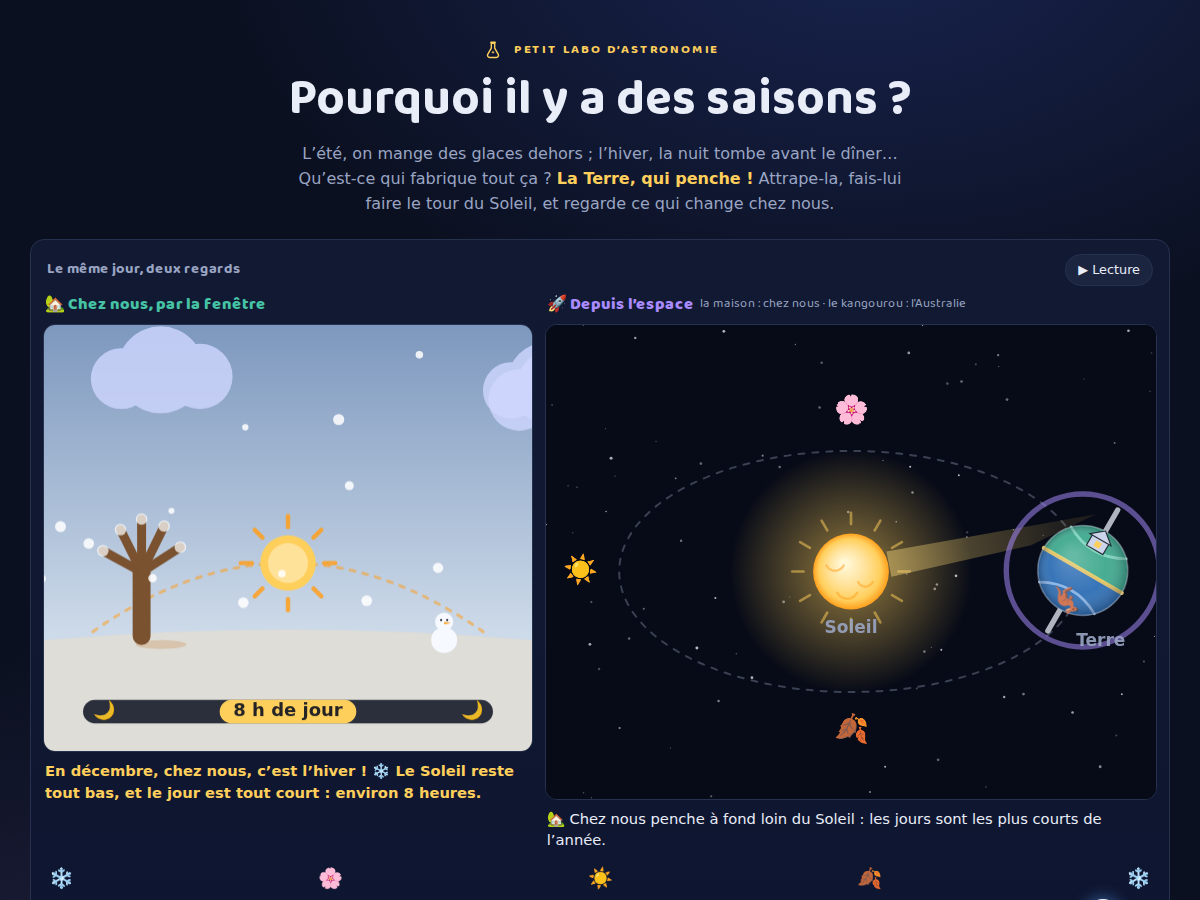
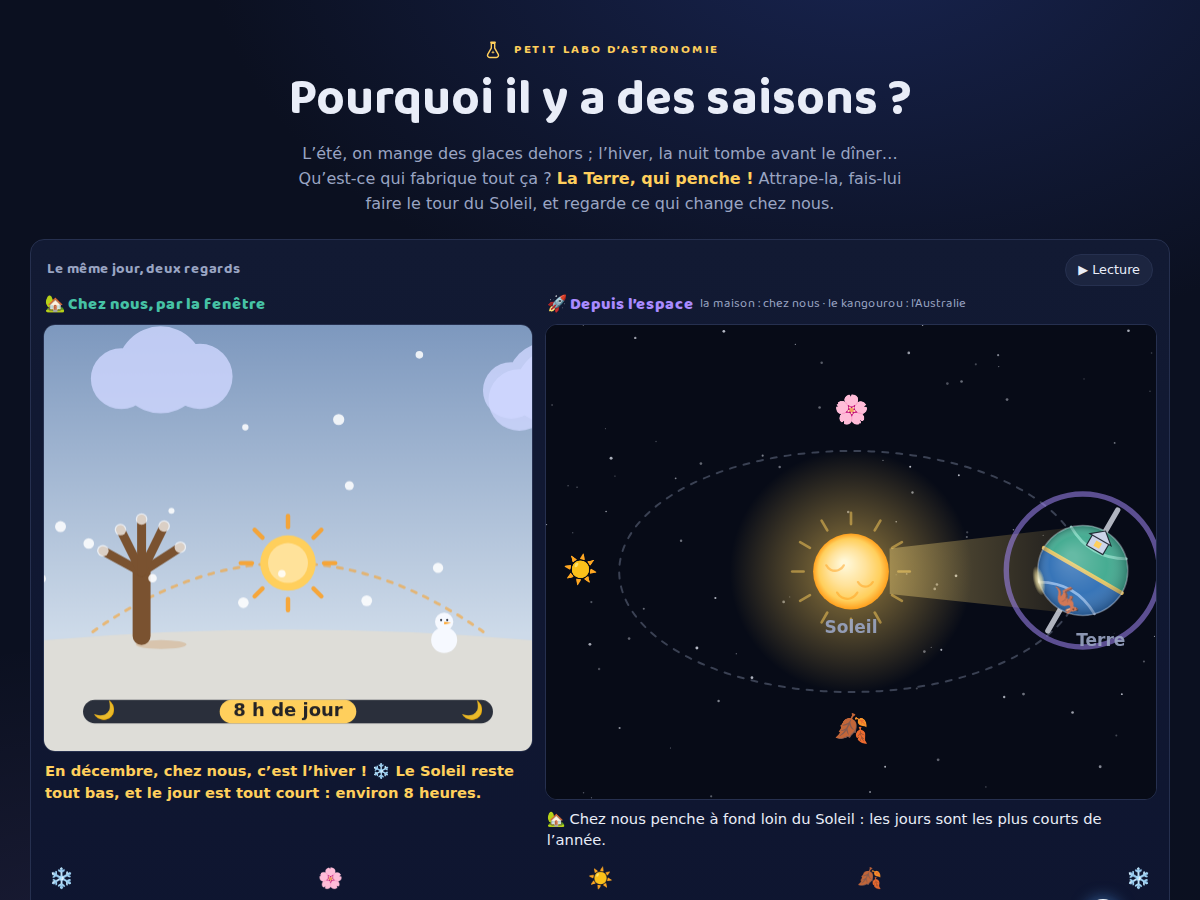
feat: le faisceau devient large, les taches d'arrivee font la pedagogie
Décision utilisateur après essais en artefact : le faisceau ne vise plus
personne — il arrose toute la face de la Terre, du pôle nord au pôle sud,
comme en vrai. Ce sont les taches d'arrivée qui racontent les saisons,
une par moitié : vive et ramassée là où la lumière frappe bien en face
(chez nous l'été, l'Australie l'hiver), aucune là où elle rase — la
lumière glisse sans chauffer. L'aplomb du sud réutilise la loi du modèle
six mois plus tard (miroir exact). Le faisceau garde son extinction aux
équinoxes (forceFaisceau).

Note aux parents, CLAUDE.md et README réalignés ; captures régénérées.

Claude-Session: https://claude.ai/code/session_018g4iGsVy9rHqQjnC3SGe4X

Changed region(s): [[0.74, 0.56, 0.8942, 0.6844]]

diff --git a/js/vue-orbite.js b/js/vue-orbite.js
@@ -37,62 +37,61 @@ var REPERES_SAISONS = [
   { emoji: '🌸', angle: (3 * TAU) / 4 }
 ];
 
-/* La lumière qui frappe : un faisceau doux du bord du Soleil vers la cible,
- * et la tache d'arrivée qui fait la pédagogie. Le sweet spot d'été est
- * généreux (le Soleil n'éclaire pas qu'un point), et quand la lumière rase
- * (hiver), la tache s'efface au profit du faisceau diffus — une ellipse
- * plate n'aurait pas de sens. `partie` : 'faisceau' (avant le globe,
- * découpé hors de son disque) ou 'tache' (après, posée sur la surface). */
-function dessinerLumiere(ctx, sx, sy, rS, tx, ty, gx, gy, rG, aplomb, partie, force) {
+/* La lumière : UN faisceau large qui arrose TOUTE la face de la Terre
+ * (comme en vrai — le Soleil ne vise personne), et des taches d'arrivée
+ * qui font la pédagogie : vive et ramassée là où la lumière frappe bien
+ * en face (chez nous l'été, l'Australie l'hiver), aucune là où elle rase
+ * (la lumière glisse sans chauffer). Le faisceau s'éteint autour des
+ * équinoxes (loi pure forceFaisceau). */
+function dessinerFaisceauLarge(ctx, g, p, force) {
   if (force < 0.05) return;
-  var lx = tx - sx, ly = ty - sy;
+  var lx = p.x - g.cx, ly = p.y - g.cy;
   var nl = Math.hypot(lx, ly) || 1; lx /= nl; ly /= nl;
   var px = -ly, py = lx;
+  ctx.save();
+  /* jamais par-dessus le globe : son disque est découpé du faisceau */
+  ctx.beginPath();
+  ctx.rect(-100000, -100000, 200000, 200000);
+  ctx.arc(p.x, p.y, g.rTerre - 0.5, 0, TAU, true);
+  ctx.clip('evenodd');
+  var degrade = ctx.createLinearGradient(g.cx + lx * g.rSoleil, g.cy + ly * g.rSoleil, p.x, p.y);
+  degrade.addColorStop(0, 'rgba(255, 224, 130, ' + (0.38 * force) + ')');
+  degrade.addColorStop(1, 'rgba(255, 207, 92, ' + (0.08 * force) + ')');
+  ctx.beginPath();
+  ctx.moveTo(g.cx + lx * g.rSoleil * 1.02 + px * g.rSoleil * 0.6, g.cy + ly * g.rSoleil * 1.02 + py * g.rSoleil * 0.6);
+  ctx.lineTo(p.x + px * g.rTerre * 0.98, p.y + py * g.rTerre * 0.98);
+  ctx.lineTo(p.x - px * g.rTerre * 0.98, p.y - py * g.rTerre * 0.98);
+  ctx.lineTo(g.cx + lx * g.rSoleil * 1.02 - px * g.rSoleil * 0.6, g.cy + ly * g.rSoleil * 1.02 - py * g.rSoleil * 0.6);
+  ctx.closePath();
+  ctx.fillStyle = degrade;
+  ctx.fill();
+  ctx.restore();
+}
+
+/* Une tache d'arrivée, posée sur le bord du globe, allongée le long de la
+ * surface. Cœur clair, bords en dégradé ; elle se fond dès que la lumière
+ * rase (aplomb < 0,45) et disparaît sous 0,25 — pas de tache pour une
+ * lumière qui glisse. */
+function dessinerTache(ctx, tx, ty, gx, gy, rG, aplomb, force) {
+  var fondu = Math.min(1, Math.max(0, (aplomb - 0.25) / 0.2));
+  var alpha = (0.35 + 0.6 * aplomb) * force * fondu;
+  if (alpha < 0.04) return;
   var nx = tx - gx, ny = ty - gy;
   var nn = Math.hypot(nx, ny) || 1; nx /= nn; ny /= nn;
-  var tanx = -ny, tany = nx;
-  if (tanx * px + tany * py < 0) { tanx = -tanx; tany = -tany; }
-  var demiTache = rG * Math.min(0.8, 0.28 / Math.max(0.16, aplomb));
-  if (partie === 'faisceau') {
-    ctx.save();
-    /* jamais par-dessus le globe : son disque est découpé du faisceau */
-    ctx.beginPath();
-    ctx.rect(-100000, -100000, 200000, 200000);
-    ctx.arc(gx, gy, rG - 0.5, 0, TAU, true);
-    ctx.clip('evenodd');
-    var degrade = ctx.createLinearGradient(sx + lx * rS, sy + ly * rS, tx, ty);
-    degrade.addColorStop(0, 'rgba(255, 224, 130, ' + (0.42 * force) + ')');
-    degrade.addColorStop(1, 'rgba(255, 207, 92, ' + (0.1 * force) + ')');
-    ctx.beginPath();
-    ctx.moveTo(sx + lx * rS * 1.02 + px * rS * 0.34, sy + ly * rS * 1.02 + py * rS * 0.34);
-    ctx.lineTo(tx + tanx * demiTache, ty + tany * demiTache);
-    ctx.lineTo(tx - tanx * demiTache, ty - tany * demiTache);
-    ctx.lineTo(sx + lx * rS * 1.02 - px * rS * 0.34, sy + ly * rS * 1.02 - py * rS * 0.34);
-    ctx.closePath();
-    ctx.fillStyle = degrade;
-    ctx.fill();
-    ctx.restore();
-  } else {
-    /* la tache s'efface quand la lumière rase (aplomb < 0,45) — en dessous
-     * de 0,25, plus d'ellipse du tout : le faisceau diffus raconte seul */
-    var fondu = Math.min(1, Math.max(0, (aplomb - 0.25) / 0.2));
-    var alpha = (0.2 + 0.55 * aplomb) * force * fondu;
-    if (alpha < 0.04) return;
-    ctx.save();
-    ctx.translate(tx, ty);
-    ctx.rotate(Math.atan2(tany, tanx));
-    ctx.scale(demiTache, Math.max(2, rG * 0.09));
-    /* bords doux : un dégradé radial plutôt qu'une ellipse franche */
-    var doux = ctx.createRadialGradient(0, 0, 0, 0, 0, 1);
-    doux.addColorStop(0, 'rgba(255, 240, 170, ' + alpha + ')');
-    doux.addColorStop(0.65, 'rgba(255, 240, 170, ' + (alpha * 0.55) + ')');
-    doux.addColorStop(1, 'rgba(255, 240, 170, 0)');
-    ctx.beginPath();
-    ctx.arc(0, 0, 1, 0, TAU);
-    ctx.fillStyle = doux;
-    ctx.fill();
-    ctx.restore();
-  }
+  var demiTache = rG * Math.min(0.8, 0.32 / Math.max(0.16, aplomb));
+  ctx.save();
+  ctx.translate(tx, ty);
+  ctx.rotate(Math.atan2(nx, -ny));
+  ctx.scale(demiTache, Math.max(2, rG * 0.13));
+  var doux = ctx.createRadialGradient(0, 0, 0, 0, 0, 1);
+  doux.addColorStop(0, 'rgba(255, 250, 215, ' + alpha + ')');
+  doux.addColorStop(0.55, 'rgba(255, 240, 170, ' + (alpha * 0.6) + ')');
+  doux.addColorStop(1, 'rgba(255, 240, 170, 0)');
+  ctx.beginPath();
+  ctx.arc(0, 0, 1, 0, TAU);
+  ctx.fillStyle = doux;
+  ctx.fill();
+  ctx.restore();
 }
 
 export function creerVueOrbite(canvas) {
@@ -336,30 +335,38 @@ export function creerVueOrbite(canvas) {
       }
       ctx.globalAlpha = 1;
       dessinerSoleil(ctx, g);
-      /* Le faisceau de lumière : sa cible vit sur le BORD ÉCLAIRÉ du globe —
-       * on part du point qui fait face au Soleil et on tourne vers le haut
-       * de l'axe, d'un angle qui suit la saison (15° l'été → 75° l'hiver)
-       * et s'adoucit aux alignements. Force et aplomb viennent du modèle
-       * (testés) : plein aux solstices, éteint aux équinoxes. */
+      /* Le faisceau large : la lumière arrose TOUTE la face de la Terre —
+       * elle ne vise personne (décision utilisateur : la version fidèle).
+       * Ce sont les taches d'arrivée qui racontent l'angle, une par moitié.
+       * On part du point qui fait face au Soleil et on tourne vers le haut
+       * de l'axe (chez nous) ou vers le bas (l'Australie), d'un angle qui
+       * suit la saison : 15° pour la moitié bien en face, 75° pour celle
+       * qui rase. L'aplomb du sud est celui du nord six mois plus tard
+       * (miroir exact du modèle : cos(a + pi) = -cos(a)). */
       var p = positionTerreCanvas(jour, g);
+      var force = forceFaisceau(jour);
+      dessinerFaisceauLarge(ctx, g, p, force);
       var versSoleil = { x: g.cx - p.x, y: g.cy - p.y };
       var nvs = Math.hypot(versSoleil.x, versSoleil.y) || 1;
       versSoleil.x /= nvs; versSoleil.y /= nvs;
       var axeEcran = { x: AXE_DIR.x, y: -AXE_DIR.y };
       var croix = versSoleil.x * axeEcran.y - versSoleil.y * axeEcran.x;
-      var gammaLumiere = ((45 - 30 * penchementNord(jour)) * Math.PI / 180) * croix;
-      var cosG = Math.cos(gammaLumiere), sinG = Math.sin(gammaLumiere);
-      var dirCible = { x: versSoleil.x * cosG - versSoleil.y * sinG,
-                       y: versSoleil.x * sinG + versSoleil.y * cosG };
-      var cibleX = p.x + dirCible.x * g.rTerre;
-      var cibleY = p.y + dirCible.y * g.rTerre;
-      var force = forceFaisceau(jour);
-      var aplomb = aplombLumiere(jour);
-      dessinerLumiere(ctx, g.cx, g.cy, g.rSoleil, cibleX, cibleY, p.x, p.y, g.rTerre, aplomb, 'faisceau', force);
+      var penchant = penchementNord(jour);
+      var thetaNord = ((45 - 30 * penchant) * Math.PI / 180) * croix;
+      var thetaSud = -((45 + 30 * penchant) * Math.PI / 180) * croix;
+      var cosN = Math.cos(thetaNord), sinN = Math.sin(thetaNord);
+      var cosS = Math.cos(thetaSud), sinS = Math.sin(thetaSud);
+      var cibleNord = { x: p.x + (versSoleil.x * cosN - versSoleil.y * sinN) * g.rTerre,
+                        y: p.y + (versSoleil.x * sinN + versSoleil.y * cosN) * g.rTerre };
+      var cibleSud = { x: p.x + (versSoleil.x * cosS - versSoleil.y * sinS) * g.rTerre,
+                       y: p.y + (versSoleil.x * sinS + versSoleil.y * cosS) * g.rTerre };
+      var aplombNord = aplombLumiere(jour);
+      var aplombSud = aplombLumiere(jour + ANNEE_JOURS / 2);
       dessinerTerre(ctx, g, jour, halo);
-      /* la tache de lumière : ramassée et vive quand le Soleil frappe en
-       * face (été), effacée quand il rase (le faisceau diffus suffit) */
-      dessinerLumiere(ctx, g.cx, g.cy, g.rSoleil, cibleX, cibleY, p.x, p.y, g.rTerre, aplomb, 'tache', force);
+      /* les taches d'arrivée : vive là où la lumière frappe en face,
+       * aucune là où elle rase */
+      dessinerTache(ctx, cibleNord.x, cibleNord.y, p.x, p.y, g.rTerre, aplombNord, force);
+      dessinerTache(ctx, cibleSud.x, cibleSud.y, p.x, p.y, g.rTerre, aplombSud, force);
       /* Les petites étiquettes (pas en mode compact). */
       if (!g.compact) {
         var taille = Math.round(Math.min(g.w, g.h) * 0.035);

diff --git a/index.html b/index.html
@@ -232,12 +232,13 @@
           même distance du Soleil toute l’année : ce qui change, c’est l’angle des rayons et la
           durée du jour, jamais la distance. C’est pourquoi maison et kangourou sont posés sur
           leur anneau, face à nous.</li>
-        <li><strong>Le faisceau de lumière est un projecteur pédagogique.</strong> Il ne
-          s’allume qu’autour des solstices, là où le dessin montre juste : la lumière frappe
-          notre moitié bien en face l’été (tache ronde et vive), la rase de biais l’hiver
-          (tache longue et pâle). Aux équinoxes, la perspective du dessin ne permet pas de le
-          montrer sans tricher — alors il s’éteint en douceur, et la phrase sous la vue prend
-          le relais.</li>
+        <li><strong>Le faisceau de lumière arrose toute la face de la Terre</strong> — comme en
+          vrai : le Soleil ne vise personne. Ce sont les taches d’arrivée qui racontent les
+          saisons : une tache vive là où la lumière frappe bien en face (chez nous l’été, en
+          Australie l’hiver), aucune là où elle rase — la lumière glisse sans chauffer. Le
+          faisceau ne s’allume qu’autour des solstices : aux équinoxes, la perspective du
+          dessin ne permet pas de montrer l’angle des rayons sans tricher — alors il s’éteint
+          en douceur, et la phrase sous la vue prend le relais.</li>
         <li><strong>Une maison, un kangourou.</strong> Ils marquent les deux moitiés de la Terre
           (leurs anneaux, vers 45° nord et 45° sud), sans prétendre à la vraie géographie. Près
           de l’équateur, on parle plutôt de saison sèche et de saison des pluies.</li>

diff --git a/CLAUDE.md b/CLAUDE.md
@@ -73,18 +73,22 @@ Vérités verrouillées par `test/model.test.mjs` (à compléter, jamais supprim
   **8 % de min(l, h)** — de l'air pour l'orbite et le faisceau —, et le
   modelé du globe (voile clair, bord assombri). La sonde de pixels « Soleil
   fixe » vise (0,5 l ; 0,52 h).
-- **Le faisceau de lumière** vit dans le modèle (`forceFaisceau`,
+- **Le faisceau de lumière est LARGE** (décision utilisateur — la version
+  fidèle) : il arrose TOUTE la face de la Terre, du pôle nord au pôle sud —
+  le Soleil ne vise personne, et le faisceau lui-même est identique en
+  toute saison. Ce sont les **taches d'arrivée** qui font la pédagogie, une
+  par moitié : cible à 15° du point face au Soleil pour la moitié bien en
+  face, 75° pour celle qui rase (rotation de versSoleil vers le haut de
+  l'axe pour chez nous, vers le bas pour l'Australie) ; l'aplomb du sud est
+  `aplombLumiere(jour + ANNEE_JOURS/2)` (miroir exact : cos(a+π) = −cos a).
+  Tache vive et ramassée quand la lumière frappe en face (demi-largeur
+  0,32/aplomb, cœur clair, bords en dégradé), **fondue dès qu'elle rase**
+  (aplomb < 0,45, disparue sous 0,25 — la lumière glisse sans chauffer,
+  pas de tache). Les lois vivent dans le modèle (`forceFaisceau`,
   `aplombLumiere`, testés) : plein autour des solstices, ÉTEINT autour des
-  équinoxes (quand la Terre est en haut/bas de l'orbite dessinée, la face
-  « éclairée » serait la région des pôles — le faisceau s'efface plutôt que de
-  raconter ça de travers) ; tache ramassée mais généreuse au solstice d'été
-  (le Soleil n'éclaire pas qu'un point : demi-largeur 0,28/aplomb, bords en
-  dégradé), **fondue dès que la lumière rase** (aplomb < 0,45 — plus
-  d'ellipse : le faisceau diffus raconte seul), jamais de saut. Sa cible
-  glisse sur le bord éclairé du globe (rotation de versSoleil vers le haut
-  de l'axe, 15° l'été → 75° l'hiver, adoucie aux alignements) — jamais
-  derrière. (La légende de distance a été retirée — décision utilisateur :
-  elle n'apportait rien ; la constance de la distance reste racontée dans
+  équinoxes (la perspective du dessin ne sait pas y montrer l'angle des
+  rayons sans tricher), jamais de saut. (La légende de distance a été
+  retirée — décision utilisateur ; la constance de la distance reste dans
   la note aux parents et verrouillée par test.)
 - `angleAnnee(jour) = (jour − 171) / 365 · τ` (0 = solstice d'été, 21 juin) ;
   `positionTerre(jour) = (−cos a, −sin a)` (sens trigonométrique). Solstice

diff --git a/README.md b/README.md
@@ -23,8 +23,9 @@ L'idée centrale, celle que l'enfant doit retenir :
   La Terre montre ses deux moitiés et leurs **anneaux de latitude** : la
   maison et le kangourou sont assis sur leur ruban, au-devant — rien ne se
   « rapproche » du Soleil en été. Autour des solstices, un **faisceau de
-  lumière** montre le mécanisme : il frappe notre moitié bien en face l'été
-  (tache généreuse et vive), la rase l'hiver (faisceau diffus, sans tache).
+  lumière large** arrose toute la face de la Terre — comme en vrai — et les
+  taches d'arrivée montrent le mécanisme : vive là où la lumière frappe bien
+  en face (chez nous l'été, en Australie l'hiver), aucune là où elle rase.
 - **La fenêtre de chez nous**, toujours synchronisée et vivante : le Soleil de
   midi qui monte haut l'été et reste bas l'hiver, et un jardin qui change
   chaque jour à petits pas (`jardinDuJour`, continu — verrouillé par test) —
